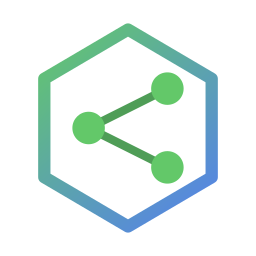
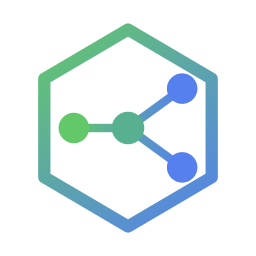
Controller mark = final 4-node topology (one -> hub -> two), family-wide
Lock in the approved Controller mark across the Linux ISO launcher icon set
(SVG + hicolor + pixmap) and the download website's Controller mark, matching the
Sysible Controller repo.

Claude-Session: https://claude.ai/code/session_01Rykm1PRspyG3mLbsfLyocH

Changed region(s): [[0.2188, 0.2812, 0.7812, 0.7188]]

diff --git a/website/index.html b/website/index.html
@@ -353,13 +353,17 @@ install-sysible-controller</pre>
       <path d="M-6.5,-7.5 L1.2,0 L-6.5,7.5" fill="none" stroke="#7aa2ff" stroke-width="2.9" stroke-linecap="round" stroke-linejoin="round"/>
       <rect x="3.2" y="3.6" width="5.6" height="5.6" rx="1" fill="#63c869"/>
     </g>
-    <!-- Controller mark: hexagon + linked nodes (fleet) -->
+    <!-- Controller mark: hexagon + controller topology (one -> hub -> two) -->
+    <linearGradient id="ctl" x1="-12" y1="0" x2="11" y2="0" gradientUnits="userSpaceOnUse">
+      <stop offset="0" stop-color="#63c869"/><stop offset="1" stop-color="#5580ee"/>
+    </linearGradient>
     <g id="mark-ctrl">
       <path d="M0,-20 L17,-10 L17,10 L0,20 L-17,10 L-17,-10 Z" fill="none" stroke="url(#sg)" stroke-width="2.5" stroke-linejoin="round"/>
-      <path d="M-8,0 L8,-8 M-8,0 L8,8" stroke="#4f9d57" stroke-width="1.7" fill="none" stroke-linecap="round"/>
-      <circle cx="-8" cy="0" r="3.3" fill="#63c869"/>
-      <circle cx="8" cy="-8" r="3.3" fill="#63c869"/>
-      <circle cx="8" cy="8" r="3.3" fill="#63c869"/>
+      <path d="M-11,0 L0,0 M0,0 L11,-8 M0,0 L11,8" stroke="url(#ctl)" stroke-width="1.7" fill="none" stroke-linecap="round" stroke-linejoin="round"/>
+      <circle cx="-11" cy="0" r="3.1" fill="#63c869"/>
+      <circle cx="0" cy="0" r="3.3" fill="#57b090"/>
+      <circle cx="11" cy="-8" r="3.1" fill="#5580ee"/>
+      <circle cx="11" cy="8" r="3.1" fill="#5580ee"/>
     </g>
   </defs>
 </svg>
